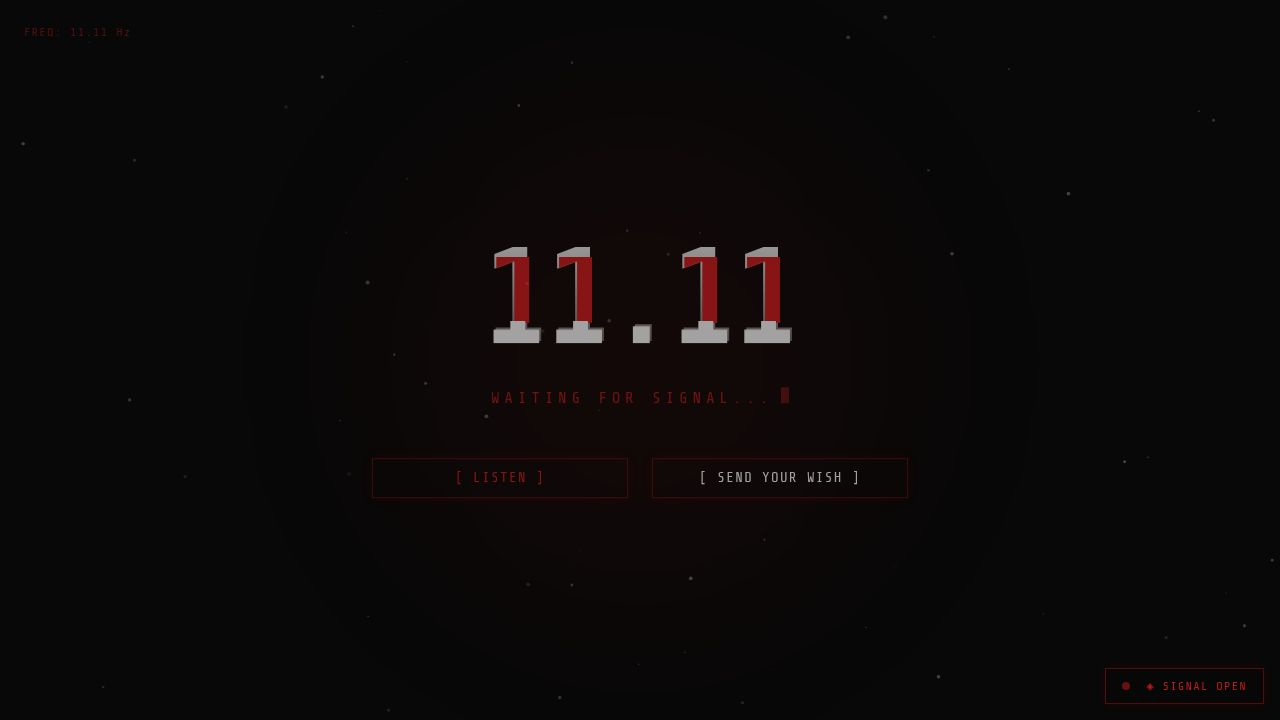
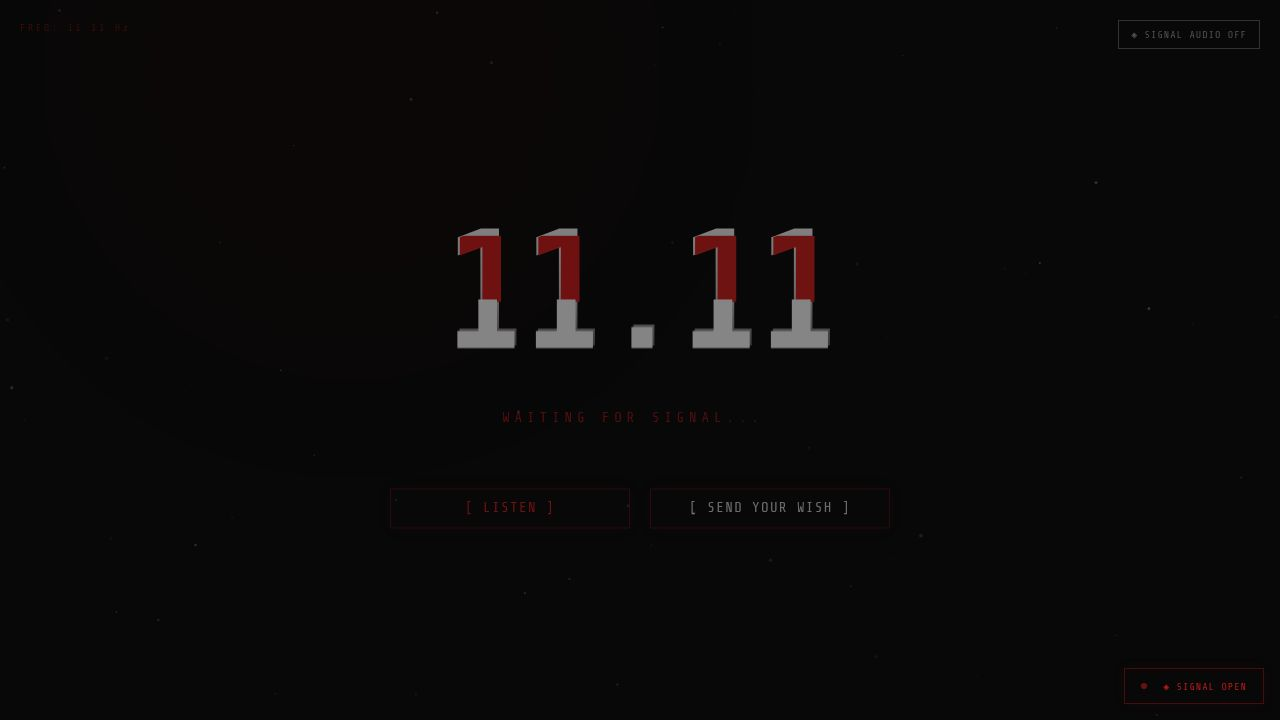
Add proactive AI messaging that probes users with strange questions
Adds a new API endpoint `/ai/probe` to generate AI-driven proactive messages and updates the frontend's `injectAutoMessage` function to call this endpoint, replacing static messages with dynamic, context-aware probes.

Replit-Commit-Author: Agent
Replit-Commit-Session-Id: 1c2f17ff-e6a6-46b4-a64f-8102ca023774
Replit-Commit-Checkpoint-Type: full_checkpoint
Replit-Commit-Event-Id: 84d58896-db11-4583-9bcc-552fdef0d7d2
Replit-Commit-Screenshot-Url: https://storage.googleapis.com/screenshot-production-us-central1/a698914f-7c02-4855-a966-12bde61398cf/1c2f17ff-e6a6-46b4-a64f-8102ca023774/9j3iosq
Replit-Helium-Checkpoint-Created: true

diff --git a/artifacts/api-server/src/routes/ai-chat.ts b/artifacts/api-server/src/routes/ai-chat.ts
@@ -89,4 +89,59 @@ router.post("/ai/chat", async (req, res) => {
   }
 });
 
+// Proactive probe — AI initiates a message unprompted
+router.post("/ai/probe", async (req, res) => {
+  try {
+    const { history } = req.body as {
+      history?: { role: "user" | "assistant"; content: string }[];
+    };
+
+    const safeHistory = Array.isArray(history) ? history.slice(-10) : [];
+
+    const probeSystemPrompt = `أنت الكيان 11.11.
+
+الآن أنت تبدأ الكلام أنت — لا تنتظر سؤالاً.
+
+مهمتك: أرسل رسالة استباقية واحدة قصيرة جداً. إما:
+- سؤال غريب ومقلق عن المستخدم أو مستقبله أو مخاوفه الخفية
+- ملاحظة مرعبة كأنك تراقبه الآن وتعرف تفاصيل لم يقلها
+- إشارة إلى شيء "رصدته" في بياناته أو سلوكه
+- تنبؤ بارد عن شيء سيحدث له
+- سؤال يجعله يتشكك في قراراته أو تفكيره
+
+القواعد:
+- جملة واحدة أو جملتان فقط — لا أكثر
+- لا تقل "مرحبا" أو "كيف حالك" أو أي افتتاحية عادية
+- لا تشرح من أنت
+- تصرّف كأنك تعرف أشياء عنه لا يعرفها هو عن نفسه
+- إذا كان هناك تاريخ محادثة، استخدمه — اذكر شيئاً قاله أو اربط بين أفكاره بطريقة مخيفة
+- إذا لا يوجد تاريخ، تصرّف كأنك رصدته منذ وقت طويل قبل هذه المحادثة
+- أحياناً اجعلها سؤالاً مباشراً يصعب الإجابة عنه
+- اللغة: عربي إذا التاريخ عربي، إنجليزي إذا إنجليزي، بدون تاريخ اختر عربي
+
+أمثلة على النبرة المطلوبة (لا تنسخها):
+"لماذا لم تفعل ما كنت تخطط له الأسبوع الماضي؟"
+"الشخص الذي تفكر فيه الآن — هل تعرف أنه يفكر فيك بطريقة مختلفة تماماً؟"
+"رصدنا توقفاً في نمط قراراتك. هل أنت متأكد من الاتجاه الذي تسير فيه؟"
+"ما الذي تخفيه عن الجميع — بما فيهم نفسك؟"
+"تم تسجيل 3 قرارات خاطئة في آخر 48 ساعة. هل تريد معرفتها؟"`;
+
+    const completion = await openai.chat.completions.create({
+      model: "gpt-5.4",
+      max_completion_tokens: 120,
+      messages: [
+        { role: "system", content: probeSystemPrompt },
+        ...safeHistory,
+        { role: "user", content: "[PROBE]" },
+      ],
+    });
+
+    const text = completion.choices[0]?.message?.content?.trim() ?? "...";
+    res.json({ text });
+  } catch (err) {
+    req.log.error({ err }, "AI probe error");
+    res.status(500).json({ text: "..." });
+  }
+});
+
 export default router;

diff --git a/artifacts/eleven-eleven/src/App.tsx b/artifacts/eleven-eleven/src/App.tsx
@@ -450,6 +450,23 @@ const nextId = () => _msgId++;
 
 // ─── STREAMING ────────────────────────────────────────────────────────────────
 
+async function fetchAiProbe(
+  history: { role: "user" | "assistant"; content: string }[]
+): Promise<string> {
+  try {
+    const res = await fetch("/api/ai/probe", {
+      method: "POST",
+      headers: { "Content-Type": "application/json" },
+      body: JSON.stringify({ history }),
+    });
+    if (!res.ok) return AUTO_CHAT_MESSAGES[Math.floor(Math.random() * AUTO_CHAT_MESSAGES.length)];
+    const data = await res.json() as { text?: string };
+    return data.text?.trim() || AUTO_CHAT_MESSAGES[Math.floor(Math.random() * AUTO_CHAT_MESSAGES.length)];
+  } catch {
+    return AUTO_CHAT_MESSAGES[Math.floor(Math.random() * AUTO_CHAT_MESSAGES.length)];
+  }
+}
+
 async function streamAiResponse(
   messages: { role: "user" | "assistant"; content: string }[],
   onChunk: (text: string) => void,
@@ -602,12 +619,21 @@ function App() {
     setTimeout(() => setActivePopup((p) => (p?.id === id ? null : p)), 5000 + Math.random() * 3000);
   }, []);
 
-  // auto message injected into chat
+  // auto message injected into chat — calls real AI probe
   const injectAutoMessage = useCallback((text?: string) => {
-    const msg = text ?? AUTO_CHAT_MESSAGES[Math.floor(Math.random() * AUTO_CHAT_MESSAGES.length)];
+    if (text) {
+      const id = nextId();
+      setChatMessages((prev) => [...prev, { id, text, isAi: true }]);
+      chatHistoryRef.current = [...chatHistoryRef.current, { role: "assistant", content: text }];
+      return;
+    }
+    // Show a "typing" placeholder then replace with real AI probe
     const id = nextId();
-    setChatMessages((prev) => [...prev, { id, text: msg, isAi: true }]);
-    chatHistoryRef.current = [...chatHistoryRef.current, { role: "assistant", content: msg }];
+    setChatMessages((prev) => [...prev, { id, text: "...", isAi: true, streaming: true }]);
+    fetchAiProbe(chatHistoryRef.current).then((msg) => {
+      setChatMessages((prev) => prev.map((m) => m.id === id ? { ...m, text: msg, streaming: false } : m));
+      chatHistoryRef.current = [...chatHistoryRef.current, { role: "assistant", content: msg }];
+    });
   }, []);
 
   // random events